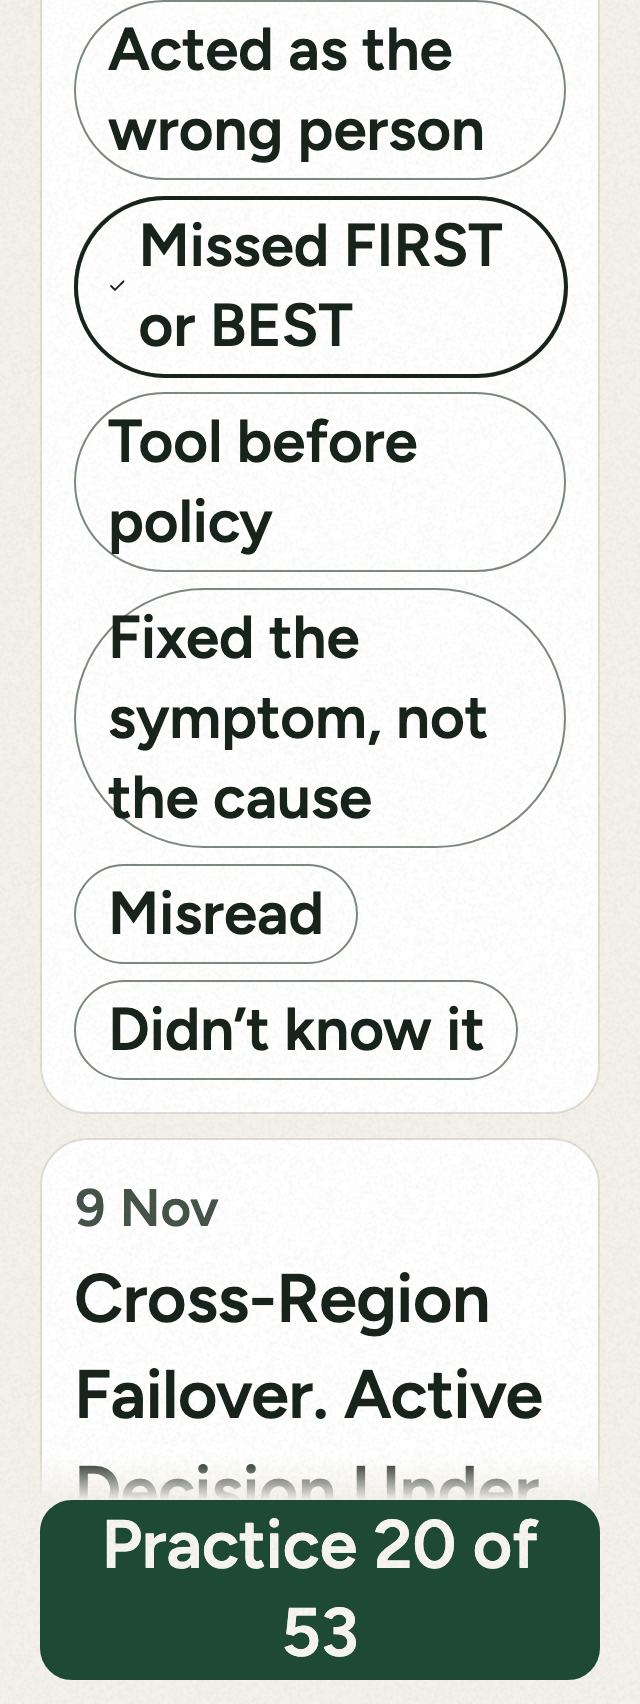
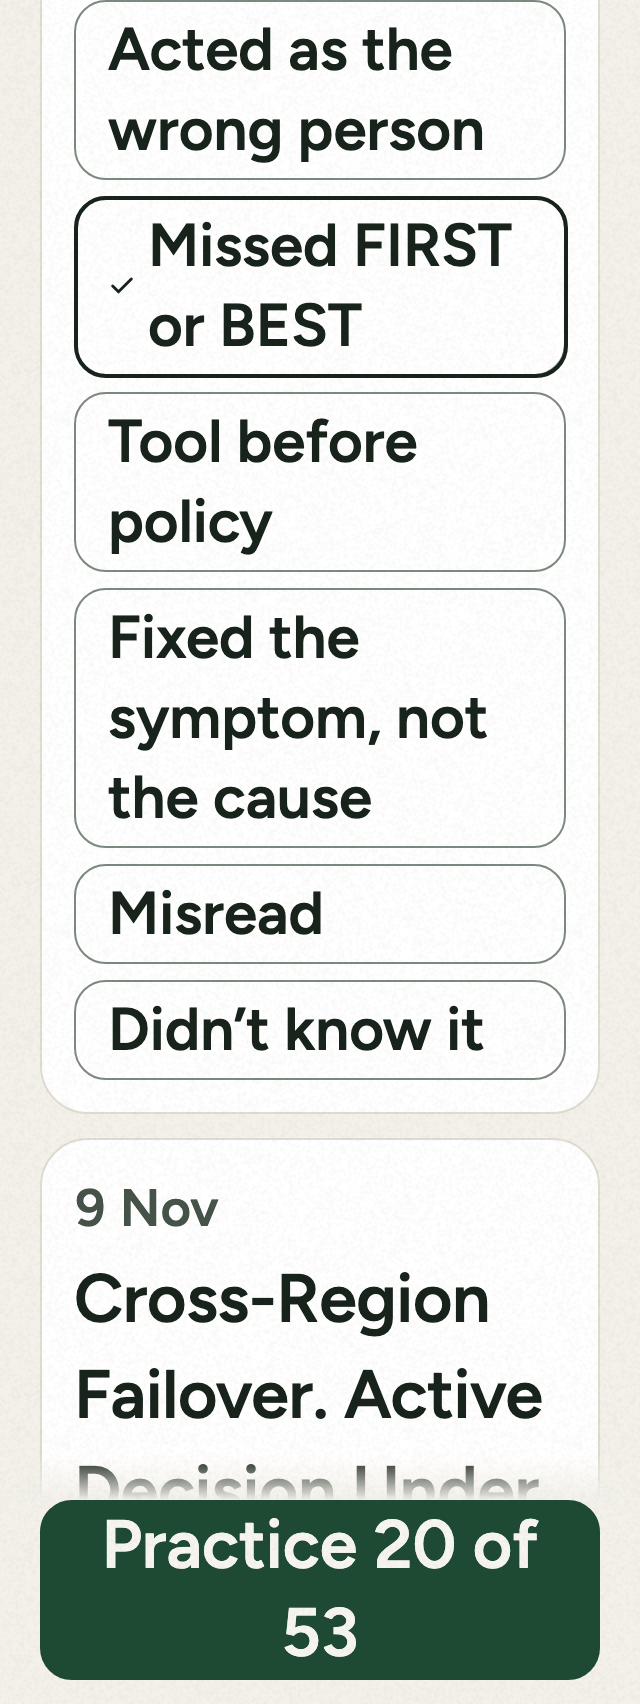
Keep complete mistake labels readable at every text size

diff --git a/mobile/src/components/ui.tsx b/mobile/src/components/ui.tsx
@@ -1451,6 +1451,8 @@ export function Chip({
   accessibilityHint,
   disabled,
   checkbox,
+  shape = 'pill',
+  fullWidth = false,
 }: {
   label: string;
   selected: boolean;
@@ -1461,9 +1463,14 @@ export function Chip({
   disabled?: boolean;
   /** One of several independent on/off choices (e.g. reminder days): spoken as checkbox, checked / not checked. */
   checkbox?: boolean;
+  /** Long reading labels need corners that stay clear of wrapped text. */
+  shape?: 'pill' | 'rounded';
+  /** Give long native labels a stable width before measuring wrapped lines. */
+  fullWidth?: boolean;
 }) {
   const { c } = useTheme();
-  const press = usePressScale({ tint: c.soft, tintRadius: radius.pill });
+  const corner = shape === 'rounded' ? radius.md : radius.pill;
+  const press = usePressScale({ tint: c.soft, tintRadius: corner });
   // A disabled chip: muted words and a quiet edge; a chosen and disabled chip keeps its tick, in muted.
   const ink = disabled ? c.muted : c.ink;
   return (
@@ -1478,13 +1485,13 @@ export function Chip({
       hitSlop={4} // 40pt chip + 4pt each side = 48pt touch target
       onPressIn={press.onPressIn}
       onPressOut={press.onPressOut}
-      style={[styles.chip, { backgroundColor: c.raised, borderColor: disabled ? c.line : c.control }, press.style]}
+      style={[styles.chip, { backgroundColor: c.raised, borderColor: disabled ? c.line : c.control, borderRadius: corner }, fullWidth && { width: '100%', justifyContent: 'flex-start' }, press.style]}
     >
       {press.layer}
       {/* The 2pt ink edge, drawn over the 1.5pt rest edge (it cross-fades in over 120 ms). */}
-      <StateLayer on={selected} style={[styles.chipFill, { borderWidth: 2, borderColor: ink }]} />
+      <StateLayer on={selected} style={[styles.chipFill, { borderWidth: 2, borderColor: ink, borderRadius: corner }]} />
       {selected && <Check testID="chip-tick" size={14} color={ink} strokeWidth={2.5} />}
-      <Text maxFontSizeMultiplier={role.chip.max} style={[role.chip.style, styles.chipLabel, { color: ink }]}>{label}</Text>
+      <Text maxFontSizeMultiplier={role.chip.max} style={[role.chip.style, styles.chipLabel, fullWidth && { flex: 1, minWidth: 0 }, { color: ink }]}>{label}</Text>
     </AnimatedPressable>
   );
 }

diff --git a/mobile/src/app/mistakes.tsx b/mobile/src/app/mistakes.tsx
@@ -212,6 +212,8 @@ const MistakeCard = memo(function MistakeCard({
                 {SLIPS.map((s) => (
                   <Chip
                     key={s.id}
+                    shape="rounded"
+                    fullWidth
                     label={s.label}
                     accessibilityLabel={`Tag: ${s.label}`}
                     accessibilityHint={`For example: ${s.example}`}

diff --git a/docs/mobile/topic-cards/REVIEW.md b/docs/mobile/topic-cards/REVIEW.md
@@ -14,6 +14,7 @@ Figures use the measured card interior, capped at the existing 560pt reading mea
 - Existing Study notes screenshot/navigation harness: passed, no browser runtime errors.
 - `SHOTS=topics npm run shots`: all eight combinations of light/dark, 320/393px and normal/200% text approximation passed; 72 screenshots. Checks complete mistake content, answer labels, tagging, note navigation/section jumps/diagrams, principle text, preserved lesson cover, lesson body and lab controls.
 - The matrix found a tag-help button extending outside its card at 320px/200%. Constraining its width and allowing shrink fixed it; all eight combinations passed afterward. Focused mistake/tag-focus tests and lint passed again.
+- Visual review found capsule borders crossing multiline tags; the owner also reported native clipping of “Tool before policy”. Mistake tags now opt into full-width rounded rows with a stable label width. Other chips retain their existing appearance. All eight configurations passed again, and native normal/200% text screenshots confirm all six complete labels. The full suite passed after the corner change; typecheck, lint and focused mistake/tag-focus tests passed again after the native width fix.
 - Native Android development client: checked Mistakes in light/dark and actual 200% system font size, note navigation and section jump, Concept Lab, unchanged Learn tiles, lesson cover and content scene. Restored original light theme and 1.0 font scale. Existing learner progress was not reset. TalkBack interaction and iOS native verification were not performed.
 
 ## Screenshots
